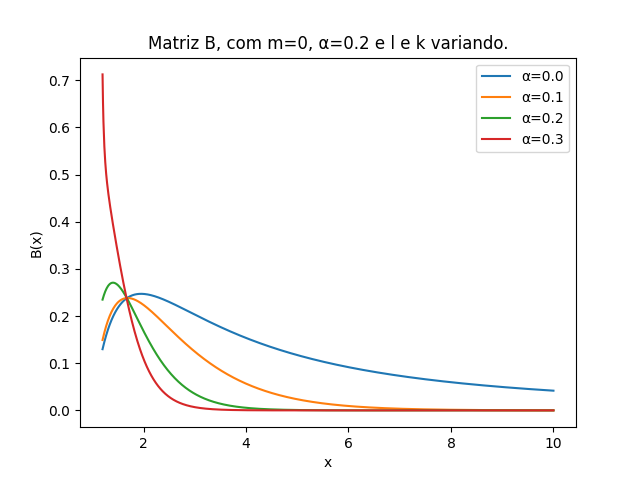
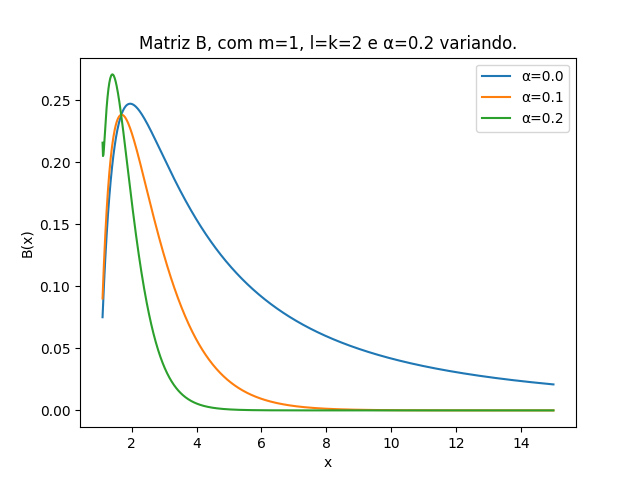
atualizacoes

diff --git a/Plots_MatrizesAB_xt.py b/Plots_MatrizesAB_xt.py
@@ -6,16 +6,16 @@ from mpl_toolkits.mplot3d import Axes3D
 
 
 def wrapper_int_matriz_A(m,l,k,alpha,N1,N2):
-	def int_matriz_A(y,x):
+	def int_matriz_A(y,x_t):
 		'''
 		Definindo o integrando da matriz A
 		'''
 	   
-		a = (x**2)-(y**2) + (alpha**2)*(x**2-1)
-		b = 4*(alpha**2)*(x**2)*(1-(y**2))
-		c = 4*(alpha**2)*(y**2)*((x**2)-1)
-		d = (x**2)-(y**2) + (alpha**2)*((x**2)-1)**2
-		e = (1+(alpha**2))*((x**2)-(y**2))
+		a = (x_t**2)-(y**2) + (alpha**2)*(x_t**2-1)
+		b = 4*(alpha**2)*(x_t**2)*(1-(y**2))
+		c = 4*(alpha**2)*(y**2)*((x_t**2)-1)
+		d = (x_t**2)-(y**2) + (alpha**2)*((x_t**2)-1)**2
+		e = (1+(alpha**2))*((x_t**2)-(y**2))
 
 		f = ((a**2)+b)/(d**2-c)
 		g = ((a**2)+b)**2/(e**4)
@@ -28,15 +28,15 @@ def wrapper_int_matriz_A(m,l,k,alpha,N1,N2):
 
 
 def wrapper_int_matriz_b(m,l,k,alpha,N1,N2):
-	def int_matriz_b(y,x):
+	def int_matriz_b(y,x_t):
 		'''
 		Definindo o integrando da matriz b
 		'''
-		a = (x**2)-(y**2) + (alpha**2)*(x**2-1)
-		b = 4*(alpha**2)*(x**2)*(1-y**2)
-		c = 4*(alpha**2)*(y**2)*(x**2-1)
-		d = (x**2)-(y**2) + (alpha**2)*(x**2-1)**2
-		e = (1+alpha**2)*(x**2-y**2)
+		a = (x_t**2)-(y**2) + (alpha**2)*(x_t**2-1)
+		b = 4*(alpha**2)*(x_t**2)*(1-y**2)
+		c = 4*(alpha**2)*(y**2)*(x_t**2-1)
+		d = (x_t**2)-(y**2) + (alpha**2)*(x_t**2-1)**2
+		e = (1+alpha**2)*(x_t**2-y**2)
 
 		f = (a**2+b)/(d**2-c)
 		g = (a**2+b)**2/(e**4)
@@ -48,7 +48,7 @@ def wrapper_int_matriz_b(m,l,k,alpha,N1,N2):
 	return int_matriz_b
     
 
-def integrated(x,m,l,k,alpha,N1,N2):
+def integrated(x_t,m,l,k,alpha,N1,N2):
     '''
     Definindo a funcao que integra a matriz
     '''
@@ -57,36 +57,38 @@ def integrated(x,m,l,k,alpha,N1,N2):
     
     vec_int_matriz_A = np.vectorize(int_matriz_A)
     vec_init_matriz_v = np.vectorize(int_matriz_b)
-    return quad(vec_int_matriz_A, -1, 1, args=(x,))[0], quad(vec_init_matriz_v, -1, 1, args=(x,))[0]
+    return quad(vec_int_matriz_A, -1, 1, args=(x_t,))[0], quad(vec_init_matriz_v, -1, 1, args=(x_t,))[0]
 
 
-def init_matriz_B(x, matriz_A, matriz_b):
-    veff = l*(l+1)+(2/(x+1))
-    matriz_B = ((x-1)/(x+1)**3)*(matriz_A*veff+(m**2)*matriz_b)
+def init_matriz_B(x_t, matriz_A, matriz_b):
+    veff = l*(l+1)+(2/(x_t+1))
+    matriz_B = ((x_t-1)/(x_t+1)**3)*(matriz_A*veff+(m**2)*matriz_b)
     return matriz_B
     
 
 #Definindo as constantes
-m = 1
-l = 2
+m = 2
+l = 4
 k = 2
-#alpha = 0.2
+alpha = 0.2
 
-x = np.linspace(1.1,15,1000)
+x = np.linspace(-2,10,1000)
+x_t = np.array((1+2*lambertw((0.5)*np.sqrt(np.exp(x-1)))),dtype=float)
 integrated = np.vectorize(integrated)
 
-"""
+
+
 plt.figure(0)
-plt.title("Matriz A, com \u03B1=0.2, l=k=4 e m variando.")
+plt.title("Matriz A, com \u03B1=0.2, l=4, k=2 e m variando.")
 plt.xlabel("x")
 plt.ylabel("A(x)")
-for m in range(-2,3):
+for m in range(-k,k+1):
     N1 = np.sqrt(((2*l+1)/(4*np.pi))*((np.math.factorial(l-m))/(np.math.factorial(l+m))))
     N2 = np.sqrt(((2*k+1)/(4*np.pi))*((np.math.factorial(k-m))/(np.math.factorial(k+m))))
-    matriz_A, matriz_b = integrated(x,m,l,k,alpha,N1,N2)
+    matriz_A, matriz_b = integrated(x_t,m,l,k,alpha,N1,N2)
     plt.plot(x, matriz_A, label="m = {0:.0f}".format(m)) 
 plt.legend(loc="best")
-"""
+
 """
 plt.figure(0)
 plt.title("Matriz A, com l=k=4, m=2 e \u03B1 variando.")
@@ -96,8 +98,8 @@ alphas = [0,0.1,0.2,0.3]
 for alpha in alphas:
     N1 = np.sqrt(((2*l+1)/(4*np.pi))*((np.math.factorial(l-m))/(np.math.factorial(l+m))))
     N2 = np.sqrt(((2*k+1)/(4*np.pi))*((np.math.factorial(k-m))/(np.math.factorial(k+m))))
-    matriz_A, matriz_b = integrated(x,m,l,k,alpha,N1,N2)
-    plt.plot(x, matriz_A, label="\u03B1={0:.01f}".format(alpha)) 
+    matriz_A, matriz_b = integrated(x_t,m,l,k,alpha,N1,N2)
+    plt.plot(x, matriz_A, label="\u03B1={0:.01f}".format(alpha))
 plt.legend(loc="best")
 """
 """
@@ -105,11 +107,12 @@ plt.figure(0)
 plt.title("Matriz A, com m=0, \u03B1=0.2 e l e k variando.")
 plt.xlabel("x")
 plt.ylabel("A(x)")
-for l,k in zip(range(1,5),range(1,5)): #laço para plotar a matriz com l=k variando e m fixo
+for l,k in zip(range(1,6),range(1,6)): #laço para plotar a matriz com l=k variando e m fixo
     N1 = np.sqrt(((2*l+1)/(4*np.pi))*((np.math.factorial(l-m))/(np.math.factorial(l+m))))
     N2 = np.sqrt(((2*k+1)/(4*np.pi))*((np.math.factorial(k-m))/(np.math.factorial(k+m))))
-    matriz_A, matriz_b = integrated(x,m,l,k,alpha,N1,N2)
-    plt.plot(x, matriz_A, label="l=k={0:.0f}".format(l)) 
+    matriz_A, matriz_b = integrated(x_t,m,l,k,alpha,N1,N2)
+    plt.plot(x, matriz_A, label="l=k={0:.0f}".format(l))
+    plt.ylim([0,4])
 plt.legend(loc="best")
 """
 
@@ -121,7 +124,7 @@ plt.ylabel("b(x)")
 for m in range(0,l+1):
     N1 = np.sqrt(((2*l+1)/(4*np.pi))*((np.math.factorial(l-m))/(np.math.factorial(l+m))))
     N2 = np.sqrt(((2*k+1)/(4*np.pi))*((np.math.factorial(k-m))/(np.math.factorial(k+m))))
-    matriz_A, matriz_b = integrated(x,m,l,k,alpha,N1,N2)
+    matriz_A, matriz_b = integrated(x_t,m,l,k,alpha,N1,N2)
     plt.plot(x, matriz_b, label="m = {0:.0f}".format(m)) 
 plt.legend(loc="best")
 """
@@ -133,7 +136,7 @@ plt.ylabel("b(x)")
 for m in range(-k,k+1):
     N1 = np.sqrt(((2*l+1)/(4*np.pi))*((np.math.factorial(l-m))/(np.math.factorial(l+m))))
     N2 = np.sqrt(((2*k+1)/(4*np.pi))*((np.math.factorial(k-m))/(np.math.factorial(k+m))))
-    matriz_A, matriz_b = integrated(x,m,l,k,alpha,N1,N2)
+    matriz_A, matriz_b = integrated(x_t,m,l,k,alpha,N1,N2)
     plt.plot(x, matriz_b, label="m = {0:.0f}".format(m)) 
 plt.legend(loc="best")
 """
@@ -146,37 +149,38 @@ alphas = [0,0.1,0.2,0.3]
 for alpha in alphas:
     N1 = np.sqrt(((2*l+1)/(4*np.pi))*((np.math.factorial(l-m))/(np.math.factorial(l+m))))
     N2 = np.sqrt(((2*k+1)/(4*np.pi))*((np.math.factorial(k-m))/(np.math.factorial(k+m))))
-    matriz_A, matriz_b = integrated(x,m,l,k,alpha,N1,N2)
+    matriz_A, matriz_b = integrated(x_t,m,l,k,alpha,N1,N2)
     plt.plot(x, matriz_b, label="\u03B1={0:.01f}".format(alpha)) 
 plt.legend(loc="best")
 """
 """
 plt.figure(2)
-plt.title("Matriz B, com \u03B1=0.2, l=4, m=1 e k variando")
+plt.title("Matriz B, com \u03B1=0.2, l=k=2 e m variando")
 plt.xlabel("x")
 plt.ylabel("B(x)")
-for k in range(1,5):
+for m in range(-l,l+1):
     N1 = np.sqrt(((2*l+1)/(4*np.pi))*((np.math.factorial(l-m))/(np.math.factorial(l+m))))
     N2 = np.sqrt(((2*k+1)/(4*np.pi))*((np.math.factorial(k-m))/(np.math.factorial(k+m))))
-    matriz_A, matriz_b = integrated(x,m,l,k,alpha,N1,N2)
-    matriz_B = init_matriz_B(x, matriz_A, matriz_b)
-    plt.plot(x, matriz_B, label="k={0:.0f}".format(k)) 
+    matriz_A, matriz_b = integrated(x_t,m,l,k,alpha,N1,N2)
+    matriz_B = init_matriz_B(x_t, matriz_A, matriz_b)
+    plt.plot(x, matriz_B, label="m={0:.0f}".format(m)) 
 plt.legend(loc="best")
 """
 """
 plt.figure(0)
-plt.title("Matriz B, com m=0, \u03B1=0.2 e l e k variando.")
+plt.title("Matriz B, com m=2, \u03B1=0.2 e l e k variando.")
 plt.xlabel("x")
 plt.ylabel("B(x)")
-for l,k in zip(range(1,5),range(1,5)): #laço para plotar a matriz com l=k variando e m fixo
+for l,k in zip(range(2,7),range(2,7)): #laço para plotar a matriz com l=k variando e m fixo
     N1 = np.sqrt(((2*l+1)/(4*np.pi))*((np.math.factorial(l-m))/(np.math.factorial(l+m))))
     N2 = np.sqrt(((2*k+1)/(4*np.pi))*((np.math.factorial(k-m))/(np.math.factorial(k+m))))
-    matriz_A, matriz_b = integrated(x,m,l,k,alpha,N1,N2)
-    matriz_B = init_matriz_B(x, matriz_A, matriz_b)
-    plt.plot(x, matriz_B, label="l=k= {0:.0f}".format(l)) 
+    matriz_A, matriz_b = integrated(x_t,m,l,k,alpha,N1,N2)
+    matriz_B = init_matriz_B(x_t, matriz_A, matriz_b)
+    plt.plot(x, matriz_B, label="l=k= {0:.0f}".format(l))
+    plt.ylim([0,3])
 plt.legend(loc="best")
 """
-
+"""
 plt.figure(0)
 plt.title("Matriz B, com m=1, l=k=2 e \u03B1=0.2 variando.")
 plt.xlabel("x")
@@ -185,11 +189,12 @@ alphas = [0,0.1,0.2]
 for alpha in alphas: #laço para plotar a matriz com l=k fixos,m fixo e alpha variando
     N1 = np.sqrt(((2*l+1)/(4*np.pi))*((np.math.factorial(l-m))/(np.math.factorial(l+m))))
     N2 = np.sqrt(((2*k+1)/(4*np.pi))*((np.math.factorial(k-m))/(np.math.factorial(k+m))))
-    matriz_A, matriz_b = integrated(x,m,l,k,alpha,N1,N2)
-    matriz_B = init_matriz_B(x, matriz_A, matriz_b)
-    plt.plot(x, matriz_B, label="\u03B1={0:.01f}".format(alpha)) 
+    matriz_A, matriz_b = integrated(x_t,m,l,k,alpha,N1,N2)
+    matriz_B = init_matriz_B(x_t, matriz_A, matriz_b)
+    plt.plot(x, matriz_B, label="\u03B1={0:.01f}".format(alpha))
+    plt.ylim([0,0.4])
 plt.legend(loc="best")
-
+"""
 plt.show()
 
 
